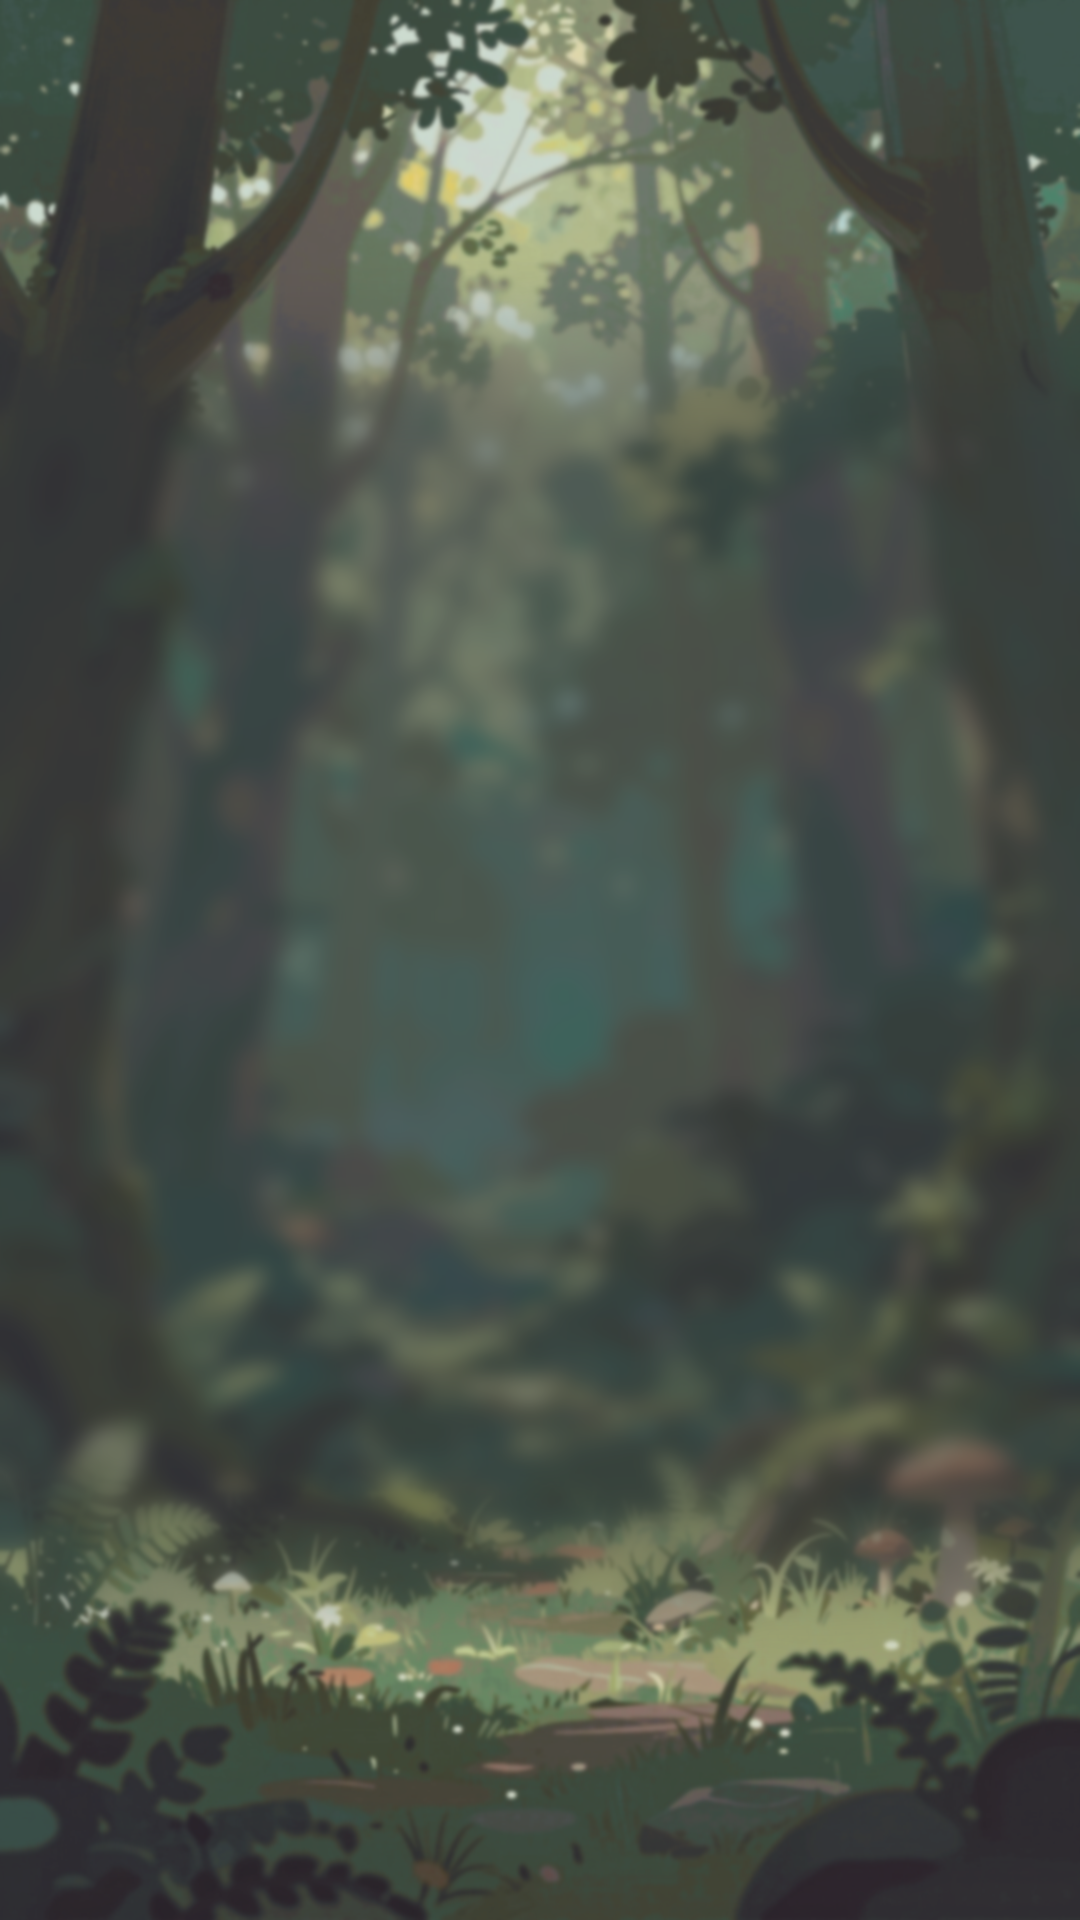
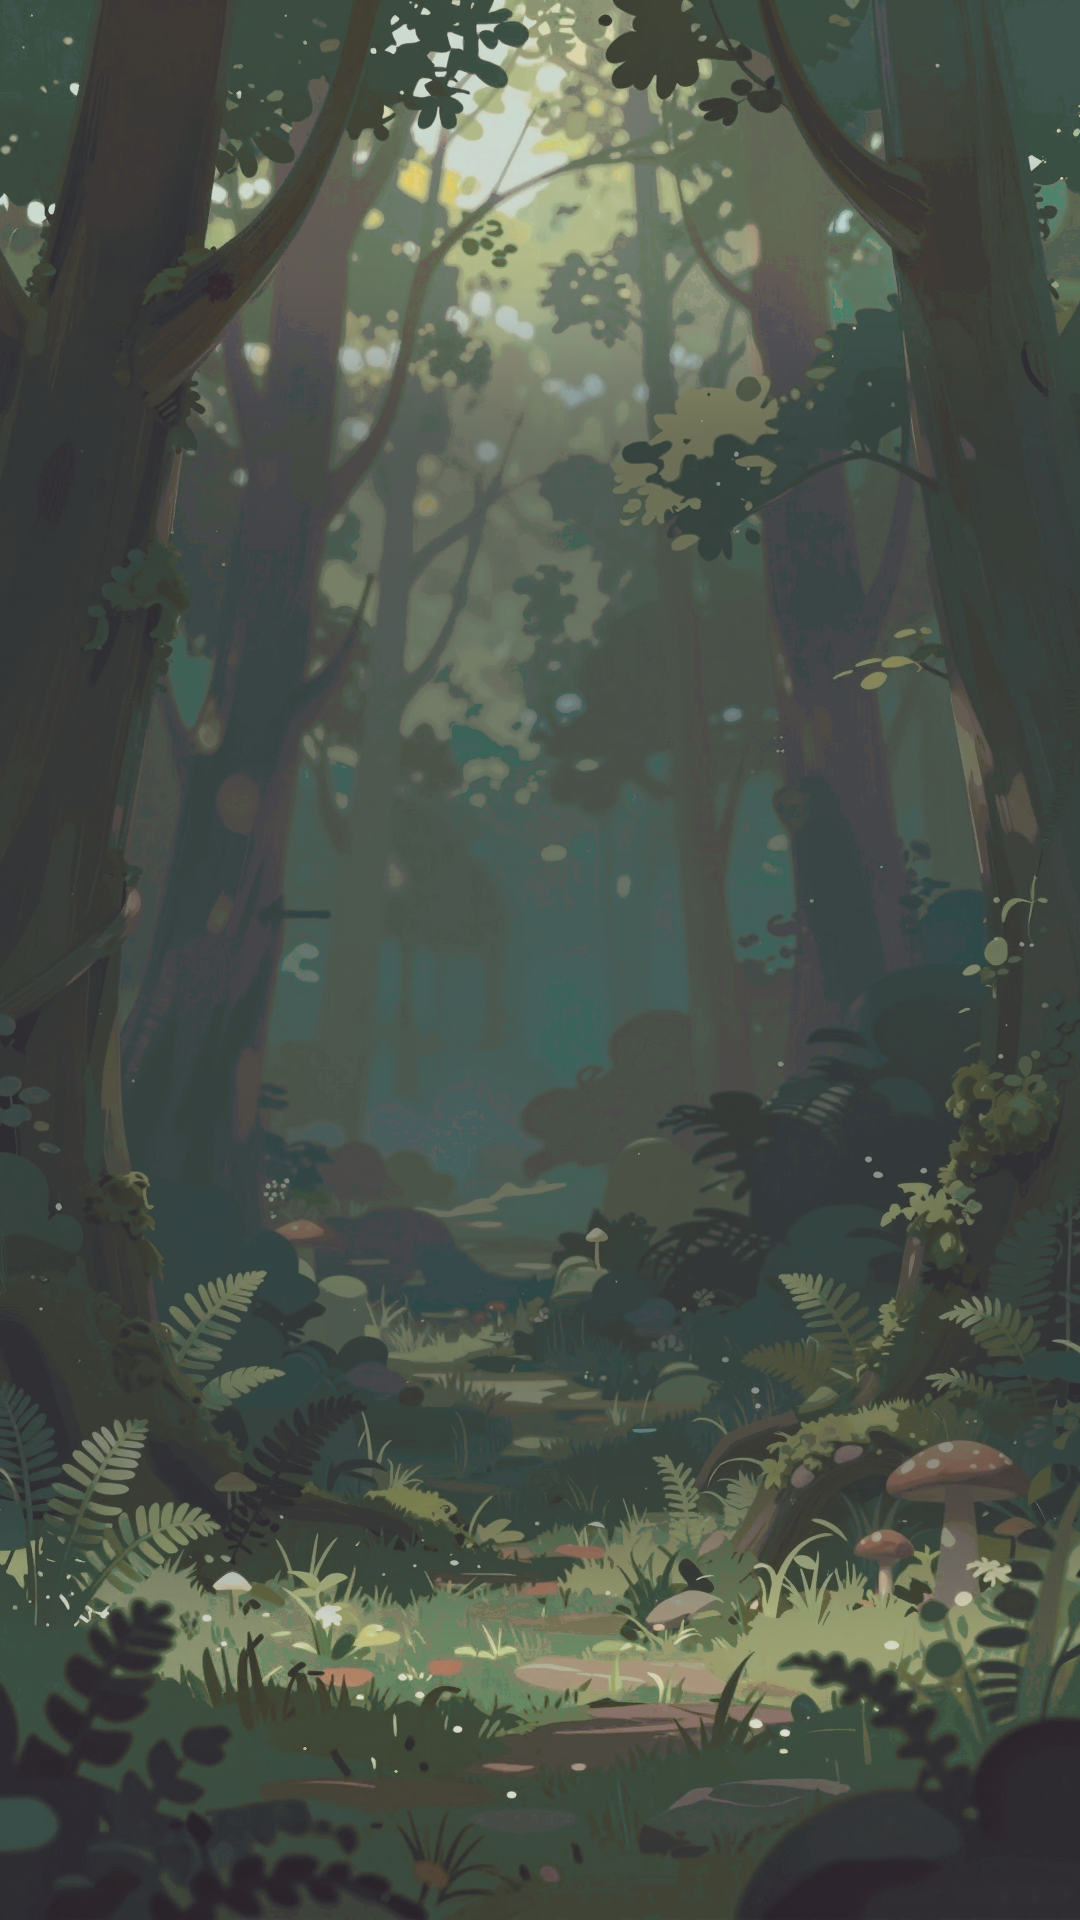
Art A: Forest background without blur
Sean's playtest: the soft-focus version looked too blurry. The grade keeps
the palette pull, softer saturation/contrast and the darker band behind the
board, with no blur.

diff --git a/art/backgrounds/make_forest.py b/art/backgrounds/make_forest.py
@@ -8,8 +8,9 @@ generate: Z-Image Turbo (Apache 2.0, local, free) through ComfyUI's HTTP API.
 grade:    palette-grades the painting to Resurrect 64 while keeping smooth
           blends: each pixel is pulled toward a soft blend of its nearest
           palette colours (not hard-quantised), saturation and contrast are
-          lowered, a baked soft focus is applied, and a calmer, darker band is
-          laid behind the board so Goobs and empty holes stay readable.
+          lowered, and a calmer, darker band is laid behind the board so Goobs
+          and empty holes stay readable. No blur (Sean, 2026-11-19 playtest:
+          the soft-focus version looked too blurry).
 Output is 1080x1920 (shown cover-fit behind the 720x1280 UI base).
 """
 import json
@@ -19,7 +20,7 @@ import sys
 import time
 import urllib.request
 
-from PIL import Image, ImageEnhance, ImageFilter
+from PIL import Image, ImageEnhance
 
 sys.path.insert(0, os.path.join(os.path.dirname(os.path.abspath(__file__)), "..", "palette"))
 from resurrect64 import PALETTE, oklab  # noqa: E402
@@ -115,13 +116,10 @@ def grade(raw_path):
             c = px[x, y]
             p = _soft_palette(c, cache)
             px[x, y] = tuple(round(c[k] * 0.3 + p[k] * 0.7) for k in range(3))
-    # Baked soft focus (no runtime DoF); stronger in the board band.
-    soft = img.filter(ImageFilter.GaussianBlur(2))
-    blur = img.filter(ImageFilter.GaussianBlur(10))
     # Calm, darker band behind the board: dark tint from the palette (313638), feathered.
     dark = Image.new("RGB", img.size, PALETTE[34])
     out = Image.new("RGB", img.size)
-    opx, spx, bpx, dpx = out.load(), soft.load(), blur.load(), dark.load()
+    opx, spx, dpx = out.load(), img.load(), dark.load()
     feather = 220
     for y in range(OUT_H):
         if y < BAND_TOP - feather or y > BAND_BOTTOM + feather:
@@ -133,8 +131,7 @@ def grade(raw_path):
             t = 1.0 - edge / feather
             t = t * t * (3 - 2 * t)
         for x in range(OUT_W):
-            a, b, d = spx[x, y], bpx[x, y], dpx[x, y]
-            c = tuple(a[k] + (b[k] - a[k]) * t for k in range(3))
+            c, d = spx[x, y], dpx[x, y]
             opx[x, y] = tuple(round(c[k] + (d[k] - c[k]) * 0.45 * t) for k in range(3))
     os.makedirs(os.path.dirname(OUT), exist_ok=True)
     out.save(OUT)
